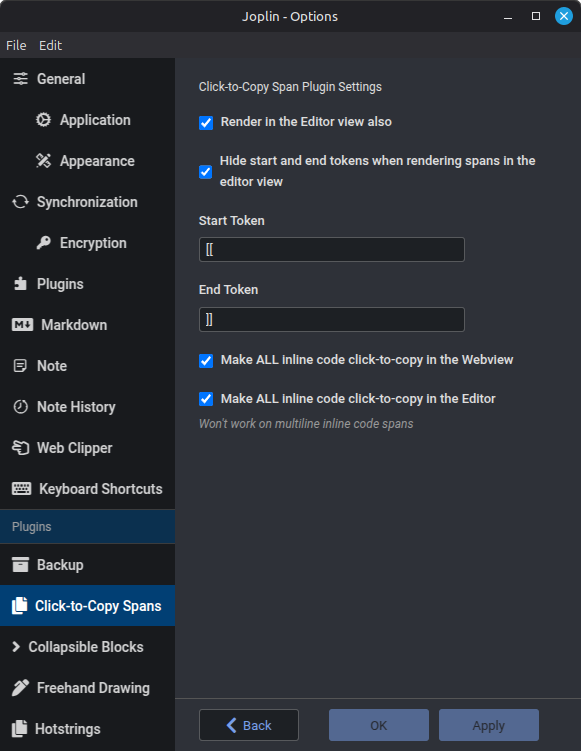
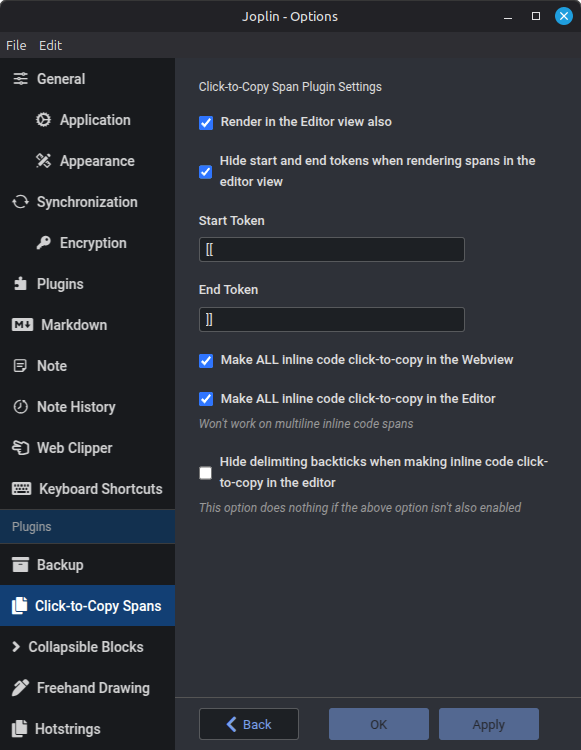
1.4.1
Adds option to hide backtick delimiters when making inline code spans click-to-copy in the editor

diff --git a/src/index.ts b/src/index.ts
@@ -55,6 +55,14 @@ joplin.plugins.register({
 		    	// ↑ It could, and at one point in development it did
 		    	// However, it was visually very confusing and so was removed
 		    },
+		    hideCodeDelimiters: {
+		    	section: 'clickToCopySpans',
+		    	public: true,
+		    	type: SettingItemType.Bool,
+		    	value: 'false',
+		    	label: 'Hide delimiting backticks when making inline code click-to-copy in the editor',
+		    	description: 'This option does nothing if the above option isn\'t also enabled',
+		    }
 		});
 
 		// Create a toolbar button
@@ -103,14 +111,15 @@ joplin.plugins.register({
 					}, 15000);
 					break;
 				case 'getSettings':
-					const [showInEditor, hideMarkdown, startToken, endToken, inlineCodeEditor] = await Promise.all([
+					const [showInEditor, hideMarkdown, startToken, endToken, inlineCodeEditor, hideCodeDelimiters] = await Promise.all([
 				        joplin.settings.value('showInEditor'),
 						joplin.settings.value('hideMarkdown'),
 				        joplin.settings.value('startToken'),
 				        joplin.settings.value('endToken'),
 				        joplin.settings.value('inlineCodeEditor'),
+				        joplin.settings.value('hideCodeDelimiters'),
 				    ]);
-				    const settings = { showInEditor, hideMarkdown, startToken, endToken, inlineCodeEditor };
+				    const settings = { showInEditor, hideMarkdown, startToken, endToken, inlineCodeEditor, hideCodeDelimiters };
 				    return settings;
 					break;
 				default:

diff --git a/src/editorScript.js b/src/editorScript.js
@@ -6,7 +6,7 @@ export default (context) => {
         assets: () => [{ name: 'style.css' }],
         plugin: async (codeMirrorWrapper) => {
             const settings = await context.postMessage({ name: 'getSettings', data: {} });
-            const { showInEditor, hideMarkdown, startToken, endToken, inlineCodeEditor } = settings;
+            const { showInEditor, hideMarkdown, startToken, endToken, inlineCodeEditor, hideCodeDelimiters } = settings;
             const escapedStartToken = startToken.replace(/[-\/\\^$*+?.()|[\]{}]/g, '\\$&');
             const escapedEndToken = endToken.replace(/[-\/\\^$*+?.()|[\]{}]/g, '\\$&');
             const ctcRegex = new RegExp(`((?:${escapedStartToken}){1,2})(.+?)((?:${escapedEndToken}){1,2})`, 'g');
@@ -206,7 +206,7 @@ export default (context) => {
                         // Looks nice and works how users would expect
                         const start = from + matchLeft.index;
                         const end = from + matchRight.index + matchRight[0].length;
-                        const text = matchLeft[0] + content + matchRight[0]; // Adds the backticks
+                        const text = hideCodeDelimiters ? content : matchLeft[0] + content + matchRight[0];
                         builder.add(start, end,
                             Decoration.replace({
                                 // Parameters: Span's text content, isPassword, clearClipboard, isCode, text to be copied

diff --git a/README.md b/README.md
@@ -2,7 +2,7 @@
 
 This Joplin plugin allows you to create inline click-to-copy text spans. 
 
-**Version**: 1.4.0
+**Version**: 1.4.1
 
 ## Installation
 
@@ -63,6 +63,7 @@ There is a settings page for the plugin in the Joplin options. There, you can:
 * Customize the start and end tokens away from the default `[[` and `]]`
 * Disable having the spans appear in the editor if you'd prefer only the raw text there
 * Choose if the start and end tokens are shown or hidden, when displaying spans in the editor is enabled
+* Enable or disable having inline code spans be click-to-copy in the webview and editor
 
 ![](screenshots/settings.png)
 
